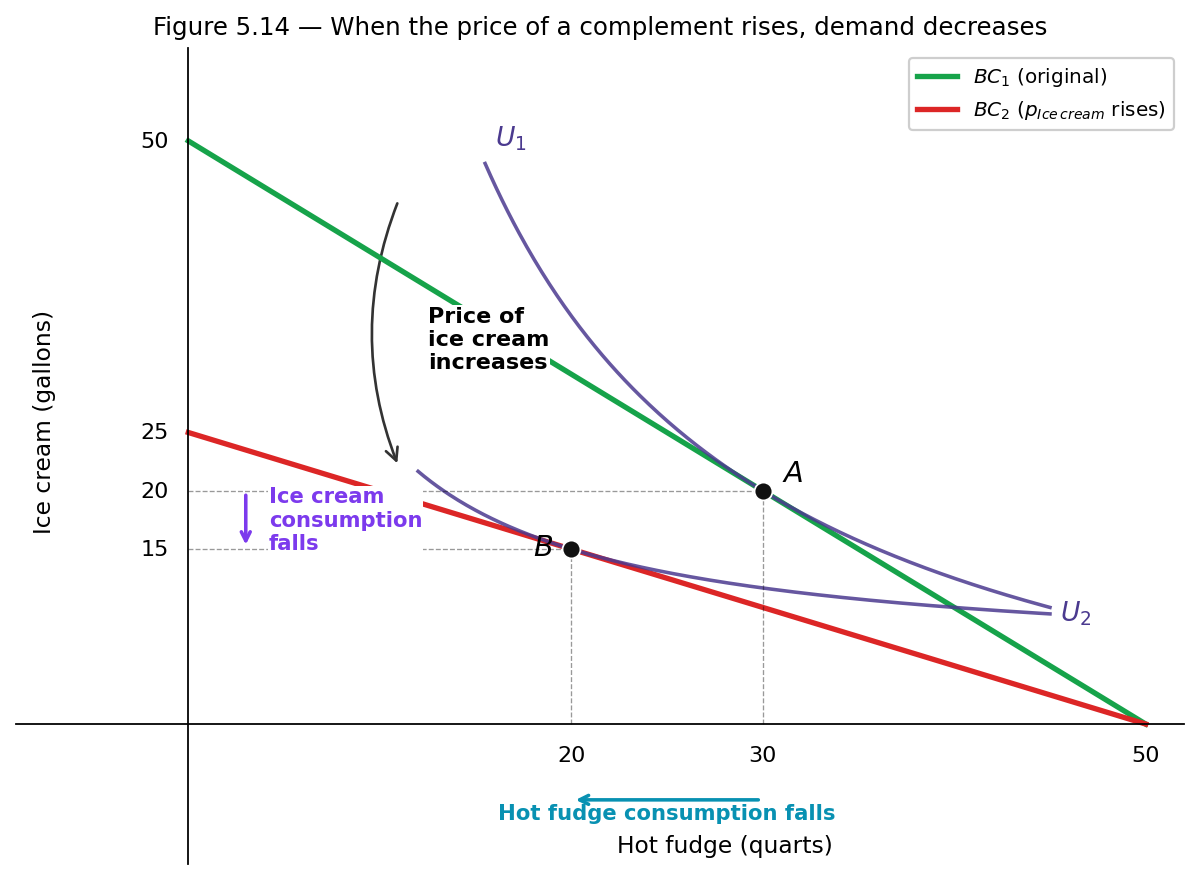
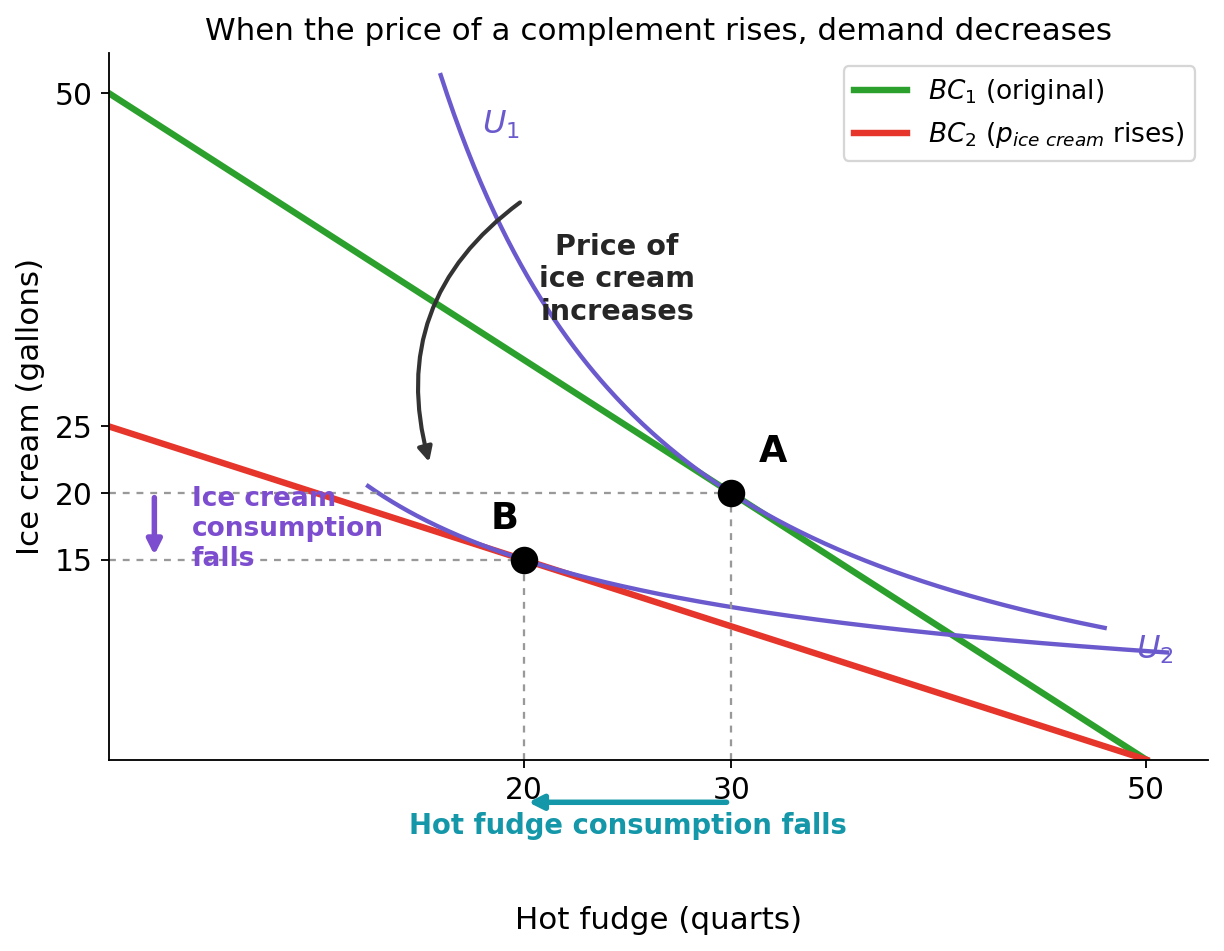
ch06 page 38: fix crossing indifference curves in complement figure
Regenerate figure-5-14-complement.png so U1 and U2 no longer cross
(U1 tangent to BC1 at A, U2 tangent to BC2 at B, U1 stays above U2).
Separate bottom label; drop figure number from title/alt.

diff --git a/econ2316/ch06-income-substitution/presentation.html b/econ2316/ch06-income-substitution/presentation.html
@@ -1191,7 +1191,7 @@
   <h2><i class="fa-solid fa-chart-line" style="color: var(--accent-color);"></i> A change in the price of a complementary good</h2>
   <div style="display: grid; grid-template-columns: 1.05fr 1fr; gap: 18px; align-items: center;">
     <div style="text-align: center;">
-      <img alt="Figure 5.14: When the price of a complement rises, demand for the primary good falls. Axes: hot fudge (x), ice cream (y). BC1 (green) pivots inward on the ice cream axis to BC2 (red) when ice cream price rises. Optimum moves from A=(30 hot fudge, 20 ice cream) on U1 to B=(20 hot fudge, 15 ice cream) on U2. Both goods fall — the complement signature." class="figure" src="figures/figure-5-14-complement.png" style="max-width: 100%; max-height: 460px; box-shadow: 0 4px 14px rgba(0,0,0,0.12); border-radius: 6px;">
+      <img alt="When the price of a complement rises, demand for the primary good falls. Axes: hot fudge (x), ice cream (y). BC1 (green) pivots inward on the ice cream axis to BC2 (red) when ice cream price rises. Optimum moves from A=(30 hot fudge, 20 ice cream) on U1 to B=(20 hot fudge, 15 ice cream) on the lower U2 — U1 and U2 do not cross. Both goods fall — the complement signature." class="figure" src="figures/figure-5-14-complement.png" style="max-width: 100%; max-height: 460px; box-shadow: 0 4px 14px rgba(0,0,0,0.12); border-radius: 6px;">
     </div>
     <div>
       <ul style="font-size: 12pt; line-height: 1.6; padding-left: 20px;">
